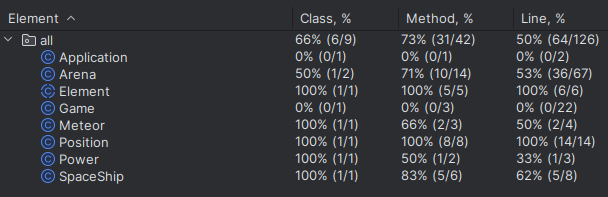
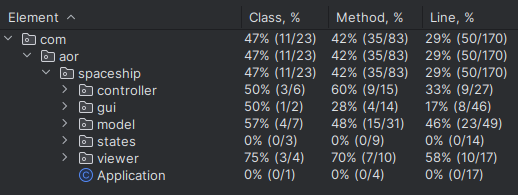
README final

diff --git a/README.md b/README.md
@@ -5,14 +5,15 @@ The objective of the game is to get the highest score possible by destroying ene
 This project was developed by Miguel Guerrinha (up202205038@fe.up.pt), Rui Cruz (up202208011@fe.up.pt) and Sheila Albino (up202109258@fe.up.pt).
 
 
-### IMPLEMENTED FEATURES
+## IMPLEMENTED FEATURES
 
 - **Spaceship moves** - The spaceship moves to the left, right, up and down using the respectively arrows.
 - **Meteors falling** - During the game, we have some meteors falling down the screen.
-- **Hit by a meteor** - If the spaceship has a collision with a meteor the game stops. 
+- **Hit by a meteor** - If the spaceship has a collision with a meteor the game stops.
 - **Spawn and catch power-ups** - When the game starts, a certain number of power-ups appear in the screen and we are able to catch them with our spaceship.
 
-### PLANNED FEATURES
+
+## PLANNED FEATURES
 
 - **Implement a menu** - The game will have the initial menu.
 - **Enemies spaceships** - The game will have some enemies that are other spaceships.
@@ -25,7 +26,7 @@ This project was developed by Miguel Guerrinha (up202205038@fe.up.pt), Rui Cruz 
 - **Score** - Every time we hit an enemy spaceship our score increase.
 
 
-### SCREENSHOTS
+## SCREENSHOTS
 
 - **Menu Preview** - Temporary menu that will still undergo several design and implementation changes. So far it's possible to start and exit the game.
 <p align="center">
@@ -38,137 +39,92 @@ This project was developed by Miguel Guerrinha (up202205038@fe.up.pt), Rui Cruz 
 </p>
 
 
-### DESIGN
+## DESIGN
 
-> This section should be organized in different subsections, each describing a different design problem that you had to solve during the project. Each subsection should be organized in four different parts:
+### Structure
 
-- **Problem in Context.** The description of the design context and the concrete problem that motivated the instantiation of the pattern. Someone else other than the original developer should be able to read and understand all the motivations for the decisions made. When refering to the implementation before the pattern was applied, don’t forget to [link to the relevant lines of code](https://help.github.com/en/articles/creating-a-permanent-link-to-a-code-snippet) in the appropriate version.
-- **The Pattern.** Identify the design pattern to be applied, why it was selected and how it is a good fit considering the existing design context and the problem at hand.
-- **Implementation.** Show how the pattern roles, operations and associations were mapped to the concrete design classes. Illustrate it with a UML class diagram, and refer to the corresponding source code with links to the relevant lines (these should be [relative links](https://help.github.com/en/articles/about-readmes#relative-links-and-image-paths-in-readme-files). When doing this, always point to the latest version of the code.
-- **Consequences.** Benefits and liabilities of the design after the pattern instantiation, eventually comparing these consequences with those of alternative solutions.
+#### Problem in Context
+The problem lies in the lack of a clear and well-defined structure to separate the game's business logic, visual presentation, and interaction control. This results in complexity, maintenance difficulties, low code reusability, and potential conflicts among different parts of the game. The **MVC pattern** is a solution that addresses these challenges by dividing the game into three distinct components (Model, View, and Controller) to provide an organized and modular structure.
 
-**Example of one of such subsections**:
+#### The Pattern
+This pattern allows for a clear separation of concerns, making it easier to maintain code, scale the application, and reuse components. In addition, it facilitates collaboration between development teams, as each component has a clearly defined responsibility.
 
-------
+#### Implementation
+For MVC Pattern implementation, the **Model**: Refactors existing classes to represent the game's business logic (such as Arena, Element, Game),
+**View**: These are the Classes related to the graphical interface (TextGraphics, on-screen drawing methods).
+and **Controller**: Manages user interaction (Arena.processKey(), input control methods).
 
-#### THE JUMP ACTION OF THE KANGAROOBOY SHOULD BEHAVE DIFFERENTLY DEPENDING ON ITS STATE
+<p align="center">
+  <img src="./resources/Images/uml.png" alt="UML">
+</p>
 
-**Problem in Context**
+#### Consequences
+- **Structured Organization**: Clear division of system responsibilities.
+- **Ease of Maintenance**: Changes to one layer do not directly affect the others.
 
-There was a lot of scattered conditional logic when deciding how the KangarooBoy should behave when jumping, as the jumps should be different depending on the items that came to his possession during the game (an helix will alow him to fly, driking a potion will allow him to jump double the height, etc.). This is a violation of the **Single Responsability Principle**. We could concentrate all the conditional logic in the same method to circumscribe the issue to that one method but the **Single Responsability Principle** would still be violated.
 
-**The Pattern**
+### State Pattern
 
-We have applied the **State** pattern. This pattern allows you to represent different states with different subclasses. We can switch to a different state of the application by switching to another implementation (i.e., another subclass). This pattern allowed to address the identified problems because […].
-
-**Implementation**
-
-The following figure shows how the pattern’s roles were mapped to the application classes.
-
-These classes can be found in the following files:
-
-- [Character](https://web.fe.up.pt/~arestivo/page/courses/2021/lpoo/template/src/main/java/Character.java)
-- [JumpAbilityState](https://web.fe.up.pt/~arestivo/page/courses/2021/lpoo/template/src/main/java/JumpAbilityState.java)
-- [DoubleJumpState](https://web.fe.up.pt/~arestivo/page/courses/2021/lpoo/template/src/main/java/DoubleJumpState.java)
-- [HelicopterState](https://web.fe.up.pt/~arestivo/page/courses/2021/lpoo/template/src/main/java/HelicopterState.java)
-- [IncreasedGravityState](https://web.fe.up.pt/~arestivo/page/courses/2021/lpoo/template/src/main/java/IncreasedGravityState.java)
-
-**Consequences**
-
-The use of the State Pattern in the current design allows the following benefits:
-
-- The several states that represent the character’s hability to jump become explicit in the code, instead of relying on a series of flags.
-- We don’t need to have a long set of conditional if or switch statements associated with the various states; instead, polimorphism is used to activate the right behavior.
-- There are now more classes and instances to manage, but still in a reasonable number.
-
-#### State 
-
-**Problem in Context**
+#### Problem in Context
 
 In the game, different states need to be managed, such as Running, Paused, and GameOver. Each state has specific key processing logic and on-screen drawings.
 
-**The Pattern**
+#### The Pattern
 
 We have applied the ***State*** pattern. This pattern helps you in State Management, i.e. encapsulating the specific behavior of each game state in separate classes (RunningState, PausedState, GameOverState). and Extension facility that allows the addition of new states without modifying existing classes.
 
-**Implementation**
+#### Implementation
 
-Create a GameState or State interface with processKey() and draw() methods to represent the behaviors common to all states.
-Implement classes (RunningState, PausedState, GameOverState) that inherit or implement the GameState interface with state-specific logic.
+Regarding implementation, the State Pattern creates a GameState or State interface with processKey() and draw() methods to represent behaviors common to all states and also implements classes (RunningState, PausedState, GameOverState) that inherit or implement the GameState interface with specific logic. of each state.
+<p align="center">
+  <img src="./resources/Images/state_pattern.png" alt="State Pattern">
+</p>
 
-**Consequences**
+#### Consequences
 
--Maintainability: Ease of adding, removing, or modifying states.
--Readability: Clarity in separating the logic of each game state.
+The use of the State Pattern in the current design allows the following benefits:
+- **Maintainability**: Ease of adding, removing, or modifying states.
+- **Readability**: Clarity in separating the logic of each game state.
 
-#### Factory
+### Factory Pattern
 
-**Problem in Context**
+#### Problem in Context
+In this game, there will be two types of controllers: the **Game Controller**, which manages the movement of each element in the game (spaceships, meteors, etc.) and the **Menu Controller**, which allows you to move around the Menu, i.e. whether you want to leave or enter the game.
 
-The creation of game elements (Meteor, Power, SpaceShip) needs to be flexible and extensible to add new types of elements in the future.
+#### The Pattern
 
+With this problem in mind, we opted for the **Factory Pattern**, which allows objects to be created without specifying the exact class of the object to be created, and Creation Encapsulation, i.e. delegating responsibility for creation to subclasses. This way we can create more than one type of controller.
 
-**The Pattern**
+#### Implementation
 
-Flexible Object Creation: Allow the creation of objects without specifying the exact class of the object to be created.
-Encapsulate Creation: Delegate creation responsibility to subclasses.
+As for implementation, factory creates a common Element interface or abstract class for all game elements,
+implements an ElementFactory class with methods (e.g., createMeteor(), createPower(), createSpaceShip()) to create each element type and ElementFactory subclasses for each element type that implement the creation methods.
+<p align="center">
+  <img src="./resources/Images/factory_pattern.png" alt="Factory Pattern">
+</p>
 
-**Implementation**
+#### Consequences
 
-Create a common Element interface or abstract class for all game elements.
-Implement an ElementFactory class with methods (e.g., createMeteor(), createPower(), createSpaceShip()) to create each element type.
-ElementFactory subclasses for each element type that implement the authoring methods.
+- **Flexibility**: Makes it easy to add new types of elements.
+- **Decoupling**: Separates the object's creation logic from its specific implementations.
 
-
-**Consequences**
-
--Flexibility: Makes it easy to add new types of elements.
--Decoupling: Separates the object's creation logic from its specific implementations.
-
-#### MVC Pattern
-
-**Problem in Context**
-
-It is necessary to separate the responsibilities of business, GUI, and game control to facilitate the maintenance and reuse of the code.
-
-**The Pattern**
-
-Separation of Responsibilities: Divide the application into Model (business logic), View (graphical interface) and Controller (control of user interactions).
-Maintainability: Allow changes to one layer without affecting the others.
-
-**Implementation**
-
-Model: Refatorar as classes existentes para representar a lógica de negócios do jogo (como Arena, Element, Game).
-View: Classes relacionadas à interface gráfica (TextGraphics, métodos de desenho na tela).
-Controller: Gerenciar a interação do usuário (Arena.processKey(), métodos de controle de entrada).
-
-
-**Consequences**
-
--Organização Estruturada: Divisão clara das responsabilidades do sistema.
--Facilidade de Manutenção: Alterações em uma camada não afetam diretamente as outras.
-
-
-
-#### KNOWN CODE SMELLS
-
-> This section should describe 3 to 5 different code smells that you have identified in your current implementation.
 
 ### TESTING
 We were able to successfully carry out 4 tests:
 
-- The **CollisionTest**, which checks if the game ends when a meteor collides with our ship.
-- The **MeteorTest** which allows us to test if the meteor always moves on the y-axis and downwards.
-- The **PowerTest** which checks if, after the ship collects a power-up, it disappears from the available list of power-ups.
-- The **SpaceShipTest**, which tests the movement of our spaceship because if it doesn't work properly, we won't be able to defeat the enemies that will appear in the future.
+- The **SpaceShipControllerTest**, which tests the movement of our spaceship because if it doesn't work properly, we won't be able to defeat the enemies that will appear in the future.
+- The **InterfaceTest**, which tests whether the spaceship and text are drawn correctly.
+- The **PositionTest**, allows to check that the moves of the elements work well.
+- The **ArenaViewerTest**, tests whether the arena's setSpaceShip function is implemented correctly, as well as the Clear and Refresh functions relating to the GUI interface.
+- The **SpaceShipViewerTest**, which tests whether the spaceship is well designed.
+
 
 <p align="center">
   <img src="./resources/Images/all_tests.png" alt="Tests">
 </p>
 
 
-- **Screenshot of coverage report**
-        - class coverage: 66%, method coverage: 73%, line coverage 50%
+- **Screenshot of coverage report** - class coverage: 47%, method coverage: 42%, line coverage 29%
 <p align="center">
   <img src="./resources/Images/tests_coverage.png" alt="Tests_Coverage">
 </p>
@@ -176,9 +132,7 @@ We were able to successfully carry out 4 tests:
 
 ### SELF-EVALUATION
 
-> In this section describe how the work regarding the project was divided between the students. In the event that members of the group do not agree on a work distribution, the group should send an email to the teacher explaining the disagreement.
-
-**Example**:
-
-- John Doe: 40%
-- Jane Doe: 60%
+- Miguel Guerrinha: 33,33%
+- Rui Cruz: 33,33%
+- Sheila Albino: 33,33%
+  
